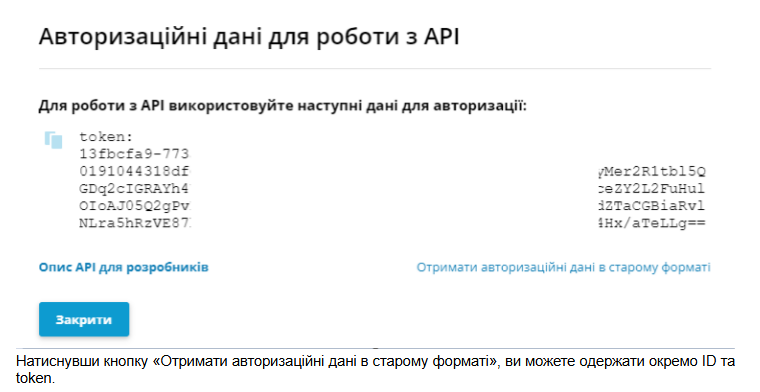
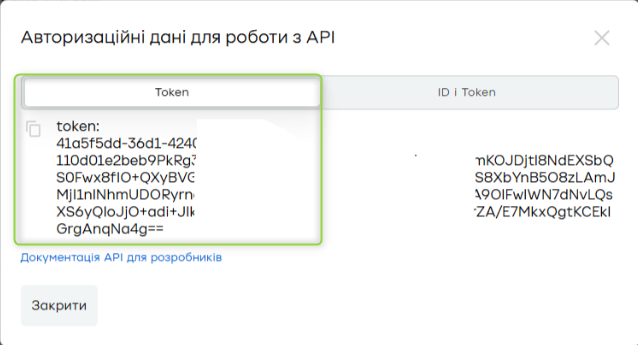
fix: update PrivatBank configuration documentation and images

diff --git a/i18n/uk/docusaurus-plugin-content-docs/current/modules/privatbank-autoclient-statement-import/configuration.md b/i18n/uk/docusaurus-plugin-content-docs/current/modules/privatbank-autoclient-statement-import/configuration.md
@@ -26,20 +26,18 @@ sidebar_label: Налаштування
 
 ### Крок 2: Налаштування вкладки ПриватБанк
 
-У вкладці **ПриватБанк** заповніть такі поля:
+У вкладці **ПриватБанк** заповніть поле:
 
 - **Токен Автоклієнт ПриватБанк24**
-
-- **Ідентифікатор Автоклієнт ПриватБанк24**
 
 Щоб отримати авторизаційні дані перейдіть за посиланням https://docs.google.com/document/d/e/2PACX-1vTtKvGa3P4E-lDqLg3bHRF6Wi9S7GIjSMFEFxII5qQZBGxuTXs25hQNiUU1hMZQhOyx6BNvIZ1bVKSr/pub
 та виконайте усі кроки описані у пункті **Створення профілю та отримання даних для авторизації**
 
-Скопіюйте отриманий Токен та ID
+Скопіюйте отриманий Токен
 
 ![Авторизаційні дані для роботи з API](/img/privatbank-autoclient-statement-import/api-authorization-token-display-ua.png)
 
-та вставте у поля Токен Автоклієнт ПриватБанк24 та Ідентифікатор Автоклієнт ПриватБанк24
+та вставте у поле Токен Автоклієнт ПриватБанк24
 
 ![Авторизаційні дані для роботи з API в Odoo](/img/privatbank-autoclient-statement-import/privatbank-tab-authentication-setup-ua.png)
 
@@ -47,7 +45,7 @@ sidebar_label: Налаштування
 
 Тут вказується за скільки останніх днів завантажувати виписки.
 
-**Значення за замовчуванням:** - 1 день.
+**Значення за замовчуванням:** 1 день.
 
 - Після збереження Журналу із заповненим токеном створюється cron, який виконується щоденно. Якщо Autoclient PrivatBank24 перестає бути джерелом Bank Feeds → cron автоматично видаляється.
 

diff --git a/docs/modules/privatbank-autoclient-statement-import/configuration.md b/docs/modules/privatbank-autoclient-statement-import/configuration.md
@@ -26,20 +26,18 @@ If you later select a different Bank Feeds option — the PrivatBank tab will be
 
 ### Step 2: Configuring the PrivatBank Tab
 
-On the **PrivatBank** tab, fill in the following fields:
+On the **PrivatBank** tab, fill in the following field:
 
 - **PrivatBank24 Autoclient Token**
-
-- **PrivatBank24 Autoclient ID**
 
 To obtain authorization credentials, follow the link https://docs.google.com/document/d/e/2PACX-1vTtKvGa3P4E-lDqLg3bHRF6Wi9S7GIjSMFEFxII5qQZBGxuTXs25hQNiUU1hMZQhOyx6BNvIZ1bVKSr/pub
 and complete all the steps described in the section **Creating a profile and obtaining authorization data**
 
-Copy the obtained Token and ID
+Activate the token and copy it
 
 ![Authorization credentials for API operation](/img/privatbank-autoclient-statement-import/api-authorization-token-display-en.png)
 
-and paste them into the PrivatBank24 Autoclient Token and PrivatBank24 Autoclient ID fields
+Paste it into the PrivatBank24 Autoclient Token field
 
 ![Authorization credentials for API operation in Odoo](/img/privatbank-autoclient-statement-import/privatbank-tab-authentication-setup-en.png)
 
@@ -47,7 +45,7 @@ and paste them into the PrivatBank24 Autoclient Token and PrivatBank24 Autoclien
 
 This specifies how many recent days to load statements for.
 
-**Default value:** - 1 day.
+**Default value:** 1 day.
 
 - After saving the Journal with a filled token, a cron is created that runs daily. If Autoclient PrivatBank24 stops being the Bank Feeds source → the cron is automatically deleted.
 
